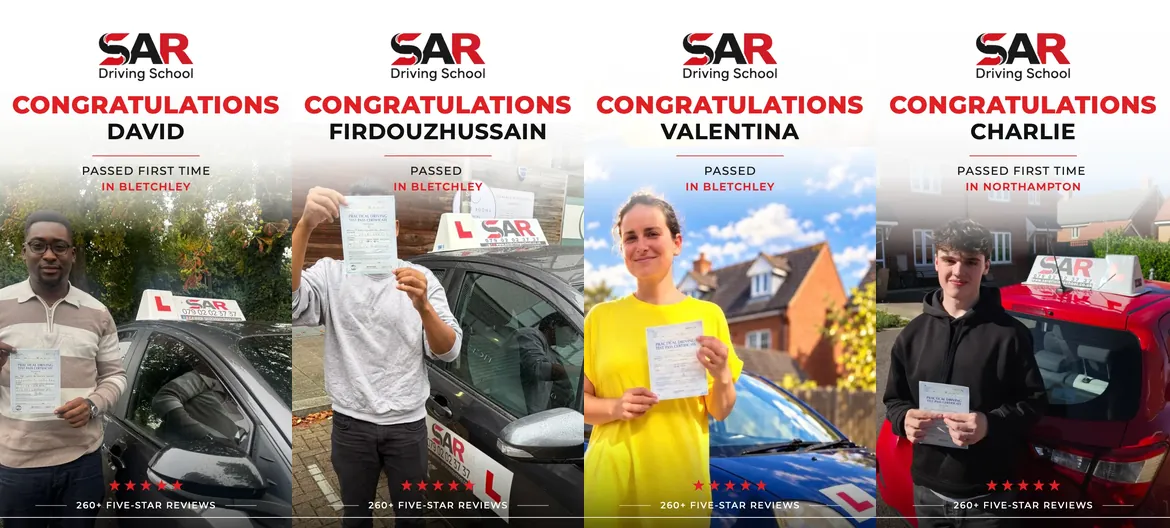
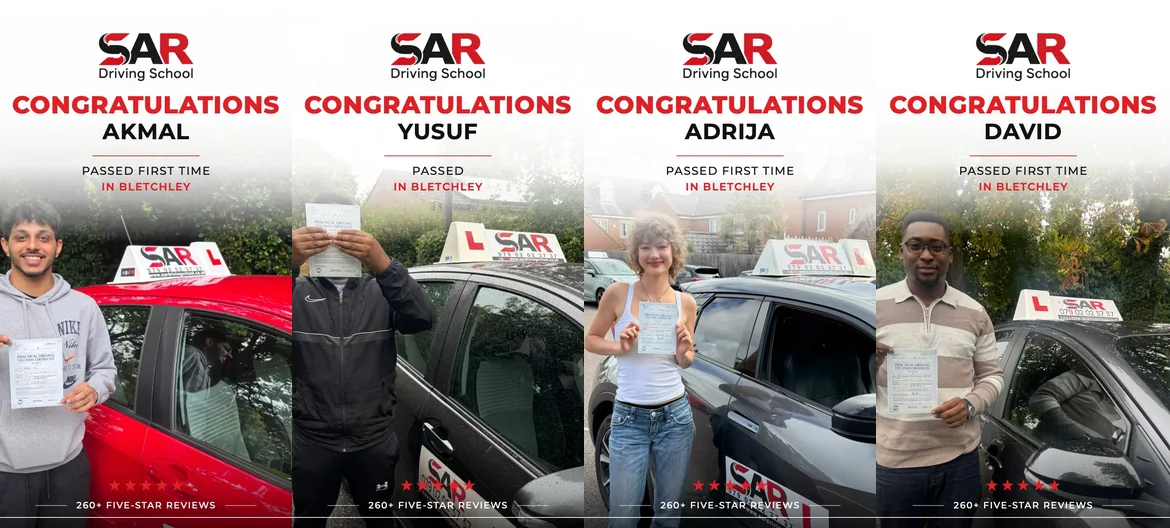
Add Adrija, Yusuf and Akmal to the gallery

diff --git a/index.html b/index.html
@@ -224,12 +224,12 @@ gtag('config', 'AW-18198829338');
         </p>
       </div>
       <div class="passes">
+        <a href="gallery.html" aria-label="See the full pass gallery"><img src="images/pass-gallery/pass-229-thumb.webp" alt="A SAR Driving School pupil on the day they passed" width="496" height="620" loading="lazy" decoding="async"></a>
+        <a href="gallery.html" aria-label="See the full pass gallery"><img src="images/pass-gallery/pass-228-thumb.webp" alt="A SAR Driving School pupil on the day they passed" width="496" height="620" loading="lazy" decoding="async"></a>
+        <a href="gallery.html" aria-label="See the full pass gallery"><img src="images/pass-gallery/pass-227-thumb.webp" alt="A SAR Driving School pupil on the day they passed" width="496" height="620" loading="lazy" decoding="async"></a>
         <a href="gallery.html" aria-label="See the full pass gallery"><img src="images/pass-gallery/pass-226-thumb.webp" alt="A SAR Driving School pupil on the day they passed" width="496" height="620" loading="lazy" decoding="async"></a>
         <a href="gallery.html" aria-label="See the full pass gallery"><img src="images/pass-gallery/pass-225-thumb.webp" alt="A SAR Driving School pupil on the day they passed" width="496" height="620" loading="lazy" decoding="async"></a>
         <a href="gallery.html" aria-label="See the full pass gallery"><img src="images/pass-gallery/pass-224-thumb.webp" alt="A SAR Driving School pupil on the day they passed" width="496" height="620" loading="lazy" decoding="async"></a>
-        <a href="gallery.html" aria-label="See the full pass gallery"><img src="images/pass-gallery/pass-223-thumb.webp" alt="A SAR Driving School pupil on the day they passed" width="496" height="620" loading="lazy" decoding="async"></a>
-        <a href="gallery.html" aria-label="See the full pass gallery"><img src="images/pass-gallery/pass-222-thumb.webp" alt="A SAR Driving School pupil on the day they passed" width="496" height="620" loading="lazy" decoding="async"></a>
-        <a href="gallery.html" aria-label="See the full pass gallery"><img src="images/pass-gallery/pass-221-thumb.webp" alt="A SAR Driving School pupil on the day they passed" width="496" height="620" loading="lazy" decoding="async"></a>
       </div>
       <div class="btn-row"><a class="btn btn-quiet arrow" href="gallery.html">See the full pass gallery</a></div>
     </div>

diff --git a/gallery.html b/gallery.html
@@ -469,11 +469,14 @@ gtag('config', 'AW-18198829338');
       });
     }
 
-    const totalImages = 226;
+    const totalImages = 229;
 
     // Display order: newest pass first. Photos 160+ were added later, so the
     // sequence is explicit rather than a plain 1..N count.
     const displayOrder = [
+      229,
+      228,
+      227,
       226,
       225,
       224,
